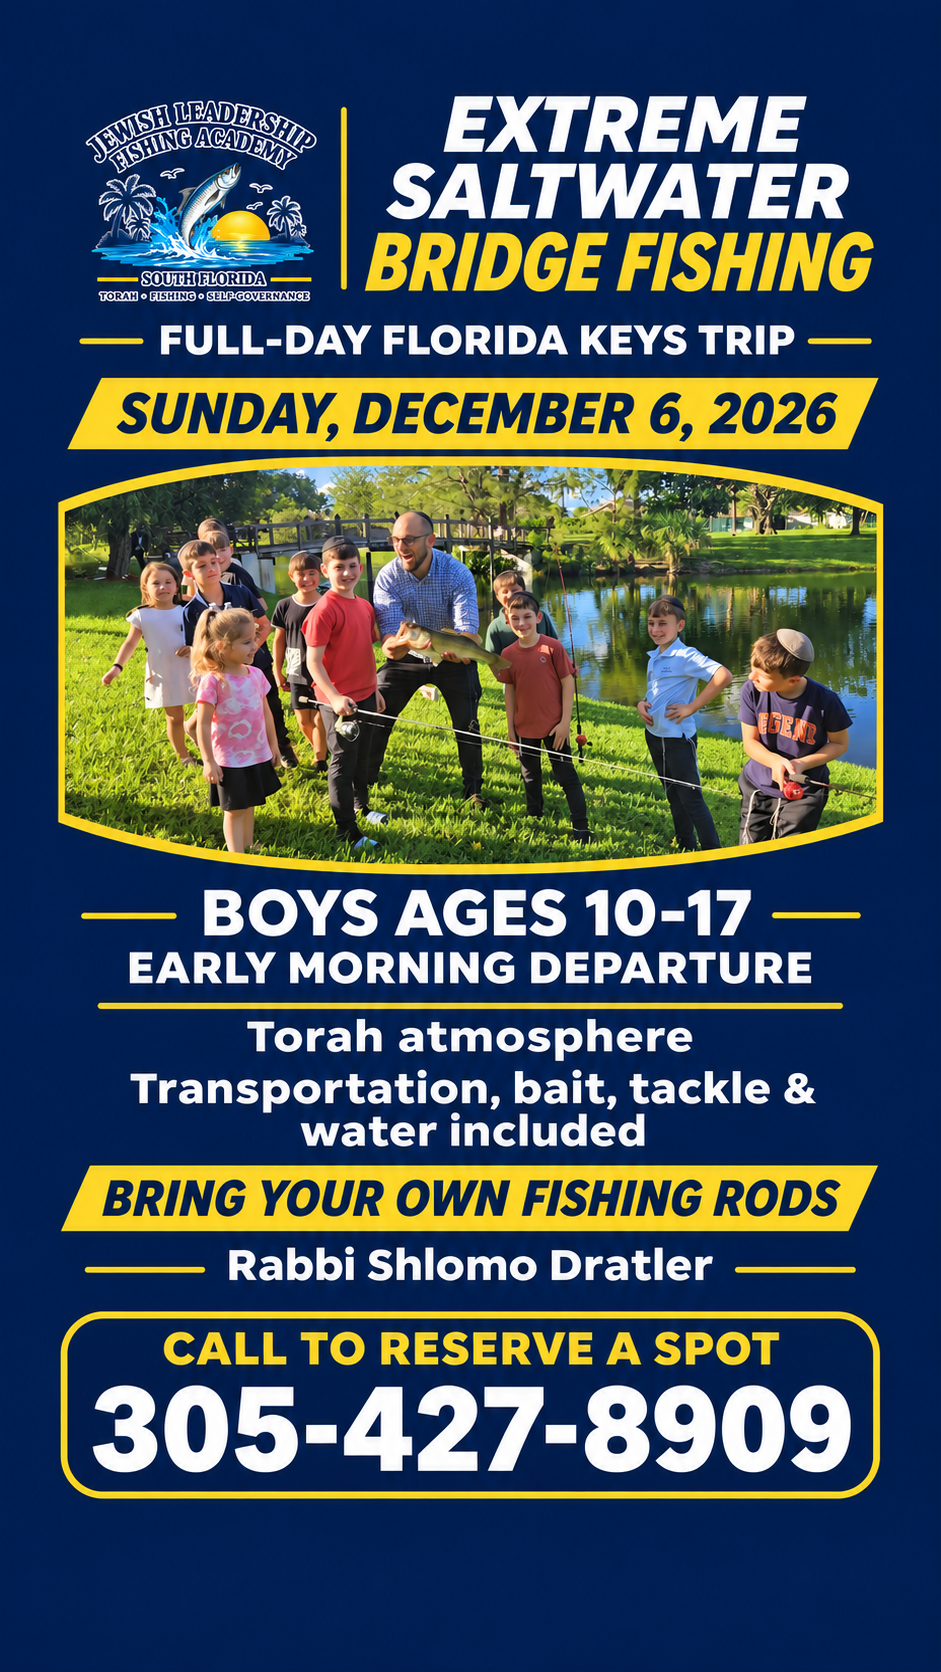
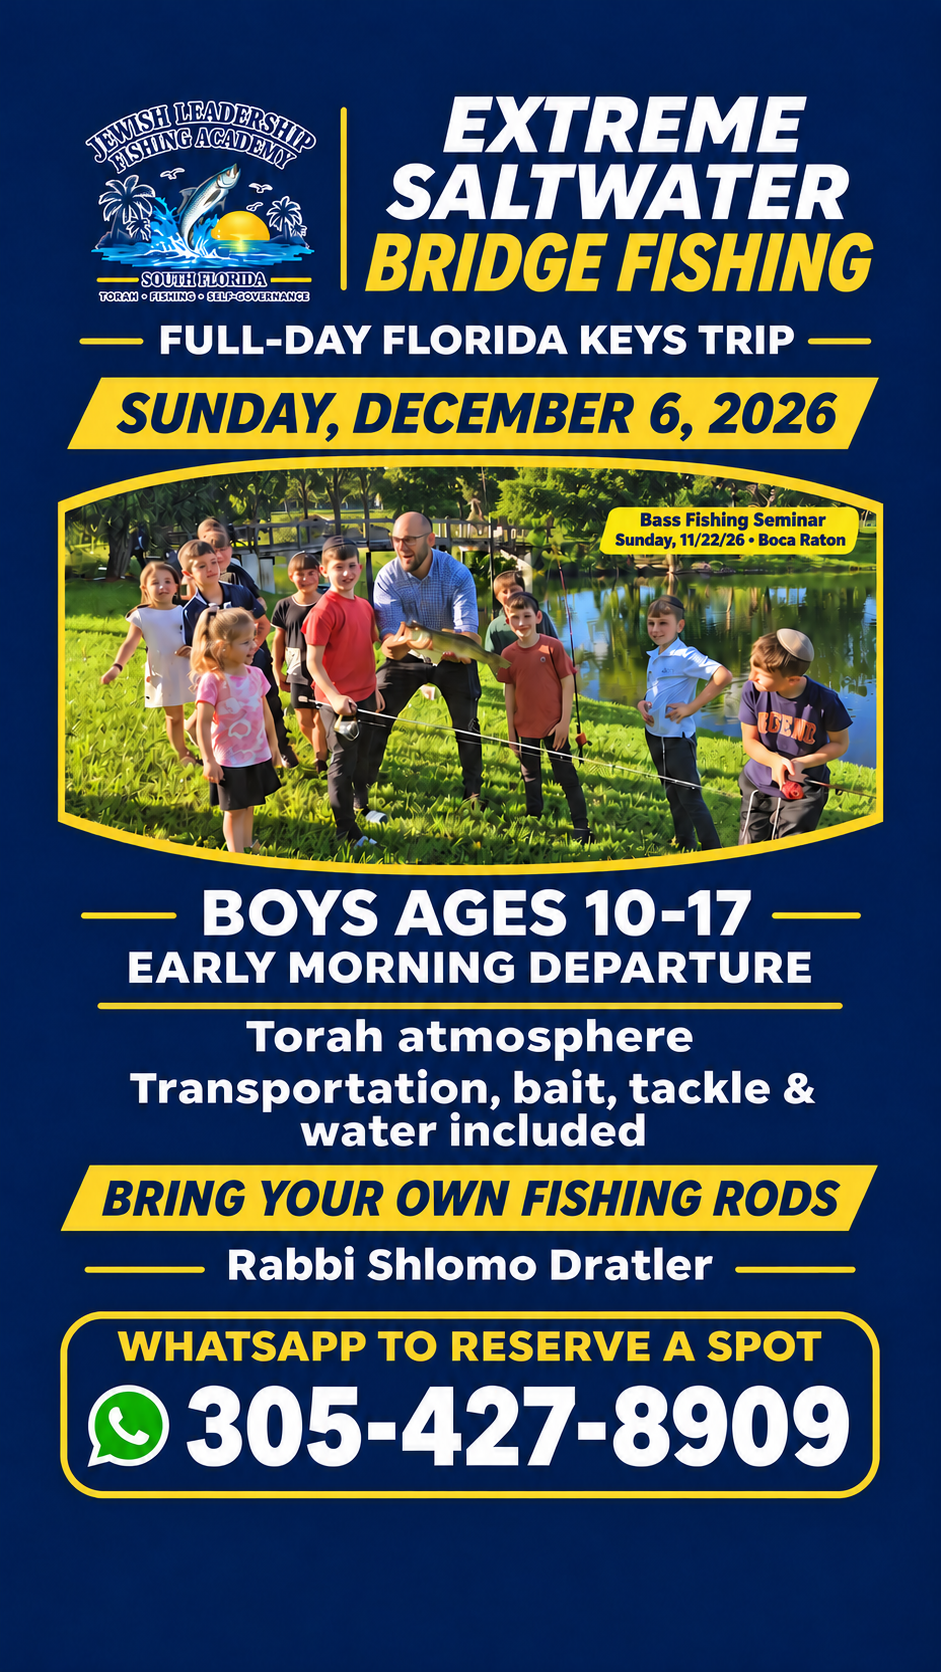
Use WhatsApp contact and clarify the Keys flyer photo date

diff --git a/apps/life-skills/src/features/keys-trip/keys-trip-page.tsx b/apps/life-skills/src/features/keys-trip/keys-trip-page.tsx
@@ -131,13 +131,13 @@ function InterestForm() {
     setSaveState("saving");
     setSaveMessage("Saving your interest request…");
     let postStarted = false;
-    let connectionMessage = "We couldn’t connect to the interest form. Your details are still here. Try again or call Rabbi Shlomo.";
+    let connectionMessage = "We couldn’t connect to the interest form. Your details are still here. Try again or message Rabbi Shlomo on WhatsApp.";
     try {
       const challengeResponse = await fetch(api, { credentials: "same-origin", cache: "no-store", signal: AbortSignal.timeout(15000) });
       const challengeBody = await challengeResponse.json();
       const data = challengeBody?.data;
-      if (!challengeResponse.ok || challengeBody?.ok !== true || typeof data?.challenge !== "string") { connectionMessage = "The interest form is temporarily unavailable. Please try again or call Rabbi Shlomo."; throw new Error(); }
-      if (data.version !== KEYS_INTEREST_VERSION || data.trip?.id !== KEYS_TRIP.id || data.trip?.version !== KEYS_TRIP.version || data.consent?.version !== KEYS_CONSENT.version || data.consent?.noticeText !== KEYS_CONSENT.noticeText || data.consent?.whatsappText !== KEYS_CONSENT.whatsappText || data.consent?.futureEmailText !== KEYS_CONSENT.futureEmailText) { connectionMessage = "The trip form has changed. Please call Rabbi Shlomo before submitting these details."; throw new Error(); }
+      if (!challengeResponse.ok || challengeBody?.ok !== true || typeof data?.challenge !== "string") { connectionMessage = "The interest form is temporarily unavailable. Please try again or message Rabbi Shlomo on WhatsApp."; throw new Error(); }
+      if (data.version !== KEYS_INTEREST_VERSION || data.trip?.id !== KEYS_TRIP.id || data.trip?.version !== KEYS_TRIP.version || data.consent?.version !== KEYS_CONSENT.version || data.consent?.noticeText !== KEYS_CONSENT.noticeText || data.consent?.whatsappText !== KEYS_CONSENT.whatsappText || data.consent?.futureEmailText !== KEYS_CONSENT.futureEmailText) { connectionMessage = "The trip form has changed. Please message Rabbi Shlomo on WhatsApp before submitting these details."; throw new Error(); }
       postStarted = true;
       const response = await fetch(api, { method: "POST", credentials: "same-origin", cache: "no-store", headers: { "Content-Type": "application/json" }, body: JSON.stringify({ ...command, challenge: data.challenge, website: "" }), signal: AbortSignal.timeout(25000) });
       const body = await response.json();
@@ -151,7 +151,7 @@ function InterestForm() {
         setErrors([]);
       } else if (response.status >= 400 && response.status < 500 && body?.ok === false && !uncertain.current && body.error?.code !== "CONFLICT") {
         setSaveState("error");
-        setSaveMessage(body.error?.code === "RATE_LIMITED" ? "Please wait a moment before trying again. Your details are still here." : "Your request was not accepted. Review your details and try again, or call Rabbi Shlomo.");
+        setSaveMessage(body.error?.code === "RATE_LIMITED" ? "Please wait a moment before trying again. Your details are still here." : "Your request was not accepted. Review your details and try again, or message Rabbi Shlomo on WhatsApp.");
       } else {
         uncertain.current = true;
         setSaveState("unknown");
@@ -187,7 +187,7 @@ function InterestForm() {
         {saveState !== "saved" && <><p>No payment is collected here. A request does not reserve a seat.</p><ol className={styles.steps} aria-label="Form progress">{["Your family", "Trip details", "Review"].map((label, index) => <li key={label} aria-current={step === index + 1 ? "step" : undefined} data-complete={step > index + 1}><span>{index + 1}</span>{label}</li>)}</ol></>}
       </header>
       {saveState === "saved" ? <div className={styles.success} role="status" ref={saveNotice} tabIndex={-1}>
-        <span className={styles.successMark} aria-hidden="true">✓</span><p>Thank you. Your family’s interest has been recorded privately for Rabbi Shlomo to review.</p><p className={styles.receipt}>Your reference <strong>{reference}</strong></p><p>This is an interest request. Your place, pickup, schedule and price still need to be confirmed with Rabbi Shlomo.</p><a className={styles.primary} href={`tel:+${trip.phoneDigits}`}>Call {trip.phone}</a>
+        <span className={styles.successMark} aria-hidden="true">✓</span><p>Thank you. Your family’s interest has been recorded privately for Rabbi Shlomo to review.</p><p className={styles.receipt}>Your reference <strong>{reference}</strong></p><p>This is an interest request. Your place, pickup, schedule and price still need to be confirmed with Rabbi Shlomo.</p><a className={styles.primary} href={`https://wa.me/${trip.phoneDigits}`}>WhatsApp {trip.phone}</a>
       </div> : <form onSubmit={submit} noValidate className={styles.formBody} aria-busy={saveState === "saving"}>
         {errors.length > 0 && <div className={styles.errorSummary} ref={errorSummary} tabIndex={-1} role="alert"><strong>Please check these details:</strong><ul>{errors.map(error => <li key={error.field}><a href={`#keys-${error.field}`}>{error.message}</a></li>)}</ul></div>}
         {step === 1 && <fieldset className={styles.fieldset} disabled={locked}><legend>Your contact details</legend>
@@ -211,7 +211,7 @@ function InterestForm() {
             <label className={styles.consent}><input type="checkbox" checked={draft.whatsapp} onChange={event => update("whatsapp", event.target.checked)} /><span>{KEYS_CONSENT.whatsappText} <small>Optional</small></span></label>
             <label className={styles.consent}><input type="checkbox" checked={draft.futureEmail} onChange={event => update("futureEmail", event.target.checked)} /><span>{KEYS_CONSENT.futureEmailText} <small>Optional</small></span></label>
           </fieldset></>}
-        {saveState !== "idle" && <div className={saveState === "unknown" ? styles.unknownNotice : styles.saveNotice} ref={saveNotice} tabIndex={-1} role={saveState === "saving" ? "status" : "alert"}><strong>{saveState === "unknown" ? "Save not confirmed" : saveState === "saving" ? "Sending your request" : "Please try again"}</strong><p>{saveMessage}</p>{saveState === "unknown" && <p>Reference for this attempt: <span className={styles.operationId}>{attemptId}</span><br />You can also call <a href={`tel:+${trip.phoneDigits}`}>{trip.phone}</a>.</p>}</div>}
+        {saveState !== "idle" && <div className={saveState === "unknown" ? styles.unknownNotice : styles.saveNotice} ref={saveNotice} tabIndex={-1} role={saveState === "saving" ? "status" : "alert"}><strong>{saveState === "unknown" ? "Save not confirmed" : saveState === "saving" ? "Sending your request" : "Please try again"}</strong><p>{saveMessage}</p>{saveState === "unknown" && <p>Reference for this attempt: <span className={styles.operationId}>{attemptId}</span><br />You can also WhatsApp <a href={`https://wa.me/${trip.phoneDigits}`}>{trip.phone}</a>.</p>}</div>}
         <div className={styles.formActions}>{step > 1 && <button className={styles.secondary} type="button" disabled={locked} onClick={() => go(step === 3 ? 2 : 1)}>Back</button>}{saveState === "unknown" ? <button className={styles.primary} type="button" onClick={() => void send()}>Retry same request</button> : <button className={styles.primary} type="submit" disabled={saveState === "saving"}>{step === 1 ? "Continue to trip details" : step === 2 ? "Review my details" : saveState === "saving" ? "Saving…" : "Send my interest request"}</button>}</div>
         <div className={styles.formFoot}><span>Your details are private.</span><button className={styles.textButton} type="button" disabled={locked} onClick={() => setShowClear(true)}>Clear this form</button></div>
         {showClear && <div className={styles.clearPrompt} role="group" aria-label="Clear form confirmation"><p>Clear all the details you entered on this page?</p><div><button className={styles.secondary} type="button" onClick={() => setShowClear(false)}>Keep my details</button><button className={styles.textButton} type="button" onClick={() => { setDraft(blankDraft()); pending.current = null; uncertain.current = false; go(1); }}>Clear details</button></div></div>}
@@ -236,17 +236,17 @@ export function KeysTripPage({ past = false, accepting = true }: { past?: boolea
   return <main className={styles.page} id="main" lang="en" dir="ltr"><a className={styles.skipLink} href={showForm ? "#interest" : "#keys-questions-title"}>{showForm ? "Skip to interest form" : "Skip to trip details"}</a>
     <div className={styles.heroWrap}><header className={styles.header}><a className={styles.brand} href="https://bneineviimacademy.org/fishing-academy" aria-label="Jewish Leadership Fishing Academy home">
       {/* eslint-disable-next-line @next/next/no-img-element -- use the exact locked logo without a transformation proxy */}
-      <img src={trip.logo} width={1254} height={1254} alt="Jewish Leadership Fishing Academy" /><span>Jewish Leadership<br />Fishing Academy</span></a><a className={styles.headerCall} href={`tel:+${trip.phoneDigits}`}>Call Rabbi Shlomo<span>{trip.phone}</span></a></header>
-      <section className={styles.hero} aria-labelledby="keys-title"><div className={styles.heroText}><p className={styles.eyebrow}>Full-day Florida Keys trip</p><h1 id="keys-title">Extreme Saltwater<br /><span>Bridge Fishing</span></h1><p className={styles.date}><time dateTime="2026-12-06">Sunday, December 6, 2026</time></p><p className={styles.heroFacts}><strong>Boys ages 10–17</strong><span>Early morning departure</span></p><p className={styles.heroDescription}>A full day of bridge fishing in the Florida Keys with Rabbi Shlomo Dratler.</p><p className={styles.torah}>Torah atmosphere</p>{past ? <div className={styles.pastNotice}><strong>The December 6 trip date has passed.</strong><p>Call Rabbi Shlomo to ask about future fishing trips.</p></div> : !accepting ? <><div className={styles.pastNotice}><p>Online interest requests are currently closed. Call Rabbi Shlomo to discuss the trip.</p></div><a className={styles.primary} href={`tel:+${trip.phoneDigits}`}>Call {trip.phone}</a></> : <a className={styles.primary} href="#interest">I’m interested</a>}<p className={styles.heroContact}>Call to reserve a spot: <a href={`tel:+${trip.phoneDigits}`}>{trip.phone}</a></p></div>
+      <img src={trip.logo} width={1254} height={1254} alt="Jewish Leadership Fishing Academy" /><span>Jewish Leadership<br />Fishing Academy</span></a><a className={styles.headerCall} href={`https://wa.me/${trip.phoneDigits}`}>WhatsApp Rabbi Shlomo<span>{trip.phone}</span></a></header>
+      <section className={styles.hero} aria-labelledby="keys-title"><div className={styles.heroText}><p className={styles.eyebrow}>Full-day Florida Keys trip</p><h1 id="keys-title">Extreme Saltwater<br /><span>Bridge Fishing</span></h1><p className={styles.date}><time dateTime="2026-12-06">Sunday, December 6, 2026</time></p><p className={styles.heroFacts}><strong>Boys ages 10–17</strong><span>Early morning departure</span></p><p className={styles.heroDescription}>A full day of bridge fishing in the Florida Keys with Rabbi Shlomo Dratler.</p><p className={styles.torah}>Torah atmosphere</p>{past ? <div className={styles.pastNotice}><strong>The December 6 trip date has passed.</strong><p>WhatsApp Rabbi Shlomo to ask about future fishing trips.</p></div> : !accepting ? <><div className={styles.pastNotice}><p>Online interest requests are currently closed. WhatsApp Rabbi Shlomo to discuss the trip.</p></div><a className={styles.primary} href={`https://wa.me/${trip.phoneDigits}`}>WhatsApp {trip.phone}</a></> : <a className={styles.primary} href="#interest">I’m interested</a>}<p className={styles.heroContact}>WhatsApp to reserve a spot: <a href={`https://wa.me/${trip.phoneDigits}`}>{trip.phone}</a></p></div>
         <figure className={styles.flyer}><a href={trip.flyer} target="_blank" rel="noopener noreferrer" aria-label="Open the full-size Keys trip flyer">
           {/* eslint-disable-next-line @next/next/no-img-element -- preserve the supplied flyer in its original proportions */}
-          <img src={trip.flyer} alt="December 6 Keys bridge fishing flyer. Boys ages 10–17. Early morning departure; transportation, bait, tackle and water included. Bring your own fishing rods. Call Rabbi Shlomo Dratler at 305-427-8909." width={941} height={1672} /></a><figcaption><a href={trip.flyer} target="_blank" rel="noopener noreferrer">View full-size flyer</a></figcaption></figure>
+          <img src={trip.flyer} alt="December 6 Keys bridge fishing flyer. Boys ages 10–17. Early morning departure; transportation, bait, tackle and water included. Bring your own fishing rods. WhatsApp Rabbi Shlomo Dratler at 305-427-8909. Photo from the Boca Raton bass fishing seminar on Sunday, November 22, 2026." width={941} height={1672} /></a><figcaption><a href={trip.flyer} target="_blank" rel="noopener noreferrer">View full-size flyer</a></figcaption></figure>
       </section></div>
     <div className={styles.content}><section className={styles.practical} aria-label="Trip essentials"><div><span className={styles.detailNumber}>01</span><h2>Included</h2><p>Transportation, bait, tackle and plenty of water.</p></div><div><span className={styles.detailNumber}>02</span><h2>Bring your own fishing rods</h2><p>Have your rods ready for a full day of saltwater bridge fishing.</p></div><div><span className={styles.detailNumber}>03</span><h2>Plan your pickup</h2><p>We’ll discuss pickup, timing and price with you directly.</p></div></section>
       {showForm && <InterestForm />}
-      <section className={styles.questions} aria-labelledby="keys-questions-title"><h2 id="keys-questions-title">A few things to know</h2><div><details><summary>Where and when will we meet?</summary><p>We’re planning an early morning departure. Pickup areas, the final bridge location and return arrangements will be confirmed directly with parents. {showForm ? "Choose any pickup areas that could work in the form." : "Call Rabbi Shlomo to discuss which pickup areas could work."}</p></details><details><summary>{showForm ? "Does this form reserve a place?" : "How do I discuss a place?"}</summary><p>{showForm ? "No. It lets Rabbi Shlomo know that your family is interested. Your place, price and pickup arrangements still need to be confirmed privately. No payment is collected here." : "Call Rabbi Shlomo to discuss your family’s interest, pricing and pickup arrangements."}</p></details><details><summary>Can I speak to Rabbi Shlomo first?</summary><p>Of course. Call <a href={`tel:+${trip.phoneDigits}`}>{trip.phone}</a> to discuss the trip, pickup and pricing.</p></details></div></section>
+      <section className={styles.questions} aria-labelledby="keys-questions-title"><h2 id="keys-questions-title">A few things to know</h2><div><details><summary>Where and when will we meet?</summary><p>We’re planning an early morning departure. Pickup areas, the final bridge location and return arrangements will be confirmed directly with parents. {showForm ? "Choose any pickup areas that could work in the form." : "WhatsApp Rabbi Shlomo to discuss which pickup areas could work."}</p></details><details><summary>{showForm ? "Does this form reserve a place?" : "How do I discuss a place?"}</summary><p>{showForm ? "No. It lets Rabbi Shlomo know that your family is interested. Your place, price and pickup arrangements still need to be confirmed privately. No payment is collected here." : "WhatsApp Rabbi Shlomo to discuss your family’s interest, pricing and pickup arrangements."}</p></details><details><summary>Can I message Rabbi Shlomo first?</summary><p>Of course. WhatsApp <a href={`https://wa.me/${trip.phoneDigits}`}>{trip.phone}</a> to discuss the trip, pickup and pricing.</p></details></div></section>
       <Sharing past={past} accepting={accepting} />
-      <footer className={styles.footer}><p>Jewish Leadership Fishing Academy<br /><span>Rabbi Shlomo Dratler · <a href={`tel:+${trip.phoneDigits}`}>{trip.phone}</a></span></p><a href="https://bneineviimacademy.org/fishing-academy">About the Academy</a></footer>
+      <footer className={styles.footer}><p>Jewish Leadership Fishing Academy<br /><span>Rabbi Shlomo Dratler · <a href={`https://wa.me/${trip.phoneDigits}`}>{trip.phone}</a></span></p><a href="https://bneineviimacademy.org/fishing-academy">About the Academy</a></footer>
     </div>
   </main>;
 }

diff --git a/apps/life-skills/docs/keys-trip-release.md b/apps/life-skills/docs/keys-trip-release.md
@@ -106,7 +106,8 @@ grant to stop the separate chat connection. Preserve recorded inquiry/consent
 and followup history. Do not modify versioned historical contracts to advertise
 a future trip: introduce a new version and keep the old decoder available.
 
-Use the phone call-to-action in the prepared marketing copy until the actual
-public form has passed its live save/readback check. Exact rental cost, mileage,
-cargo space, pickup route, bridge access and minyan remain operational questions;
-they are not implied by collecting nonbinding interest.
+Use the WhatsApp call-to-action (https://wa.me/13054278909) in the prepared
+marketing copy until the actual public form has passed its live save/readback
+check. Exact rental cost, mileage, cargo space, pickup route, bridge access and
+minyan remain operational questions; they are not implied by collecting
+nonbinding interest.
